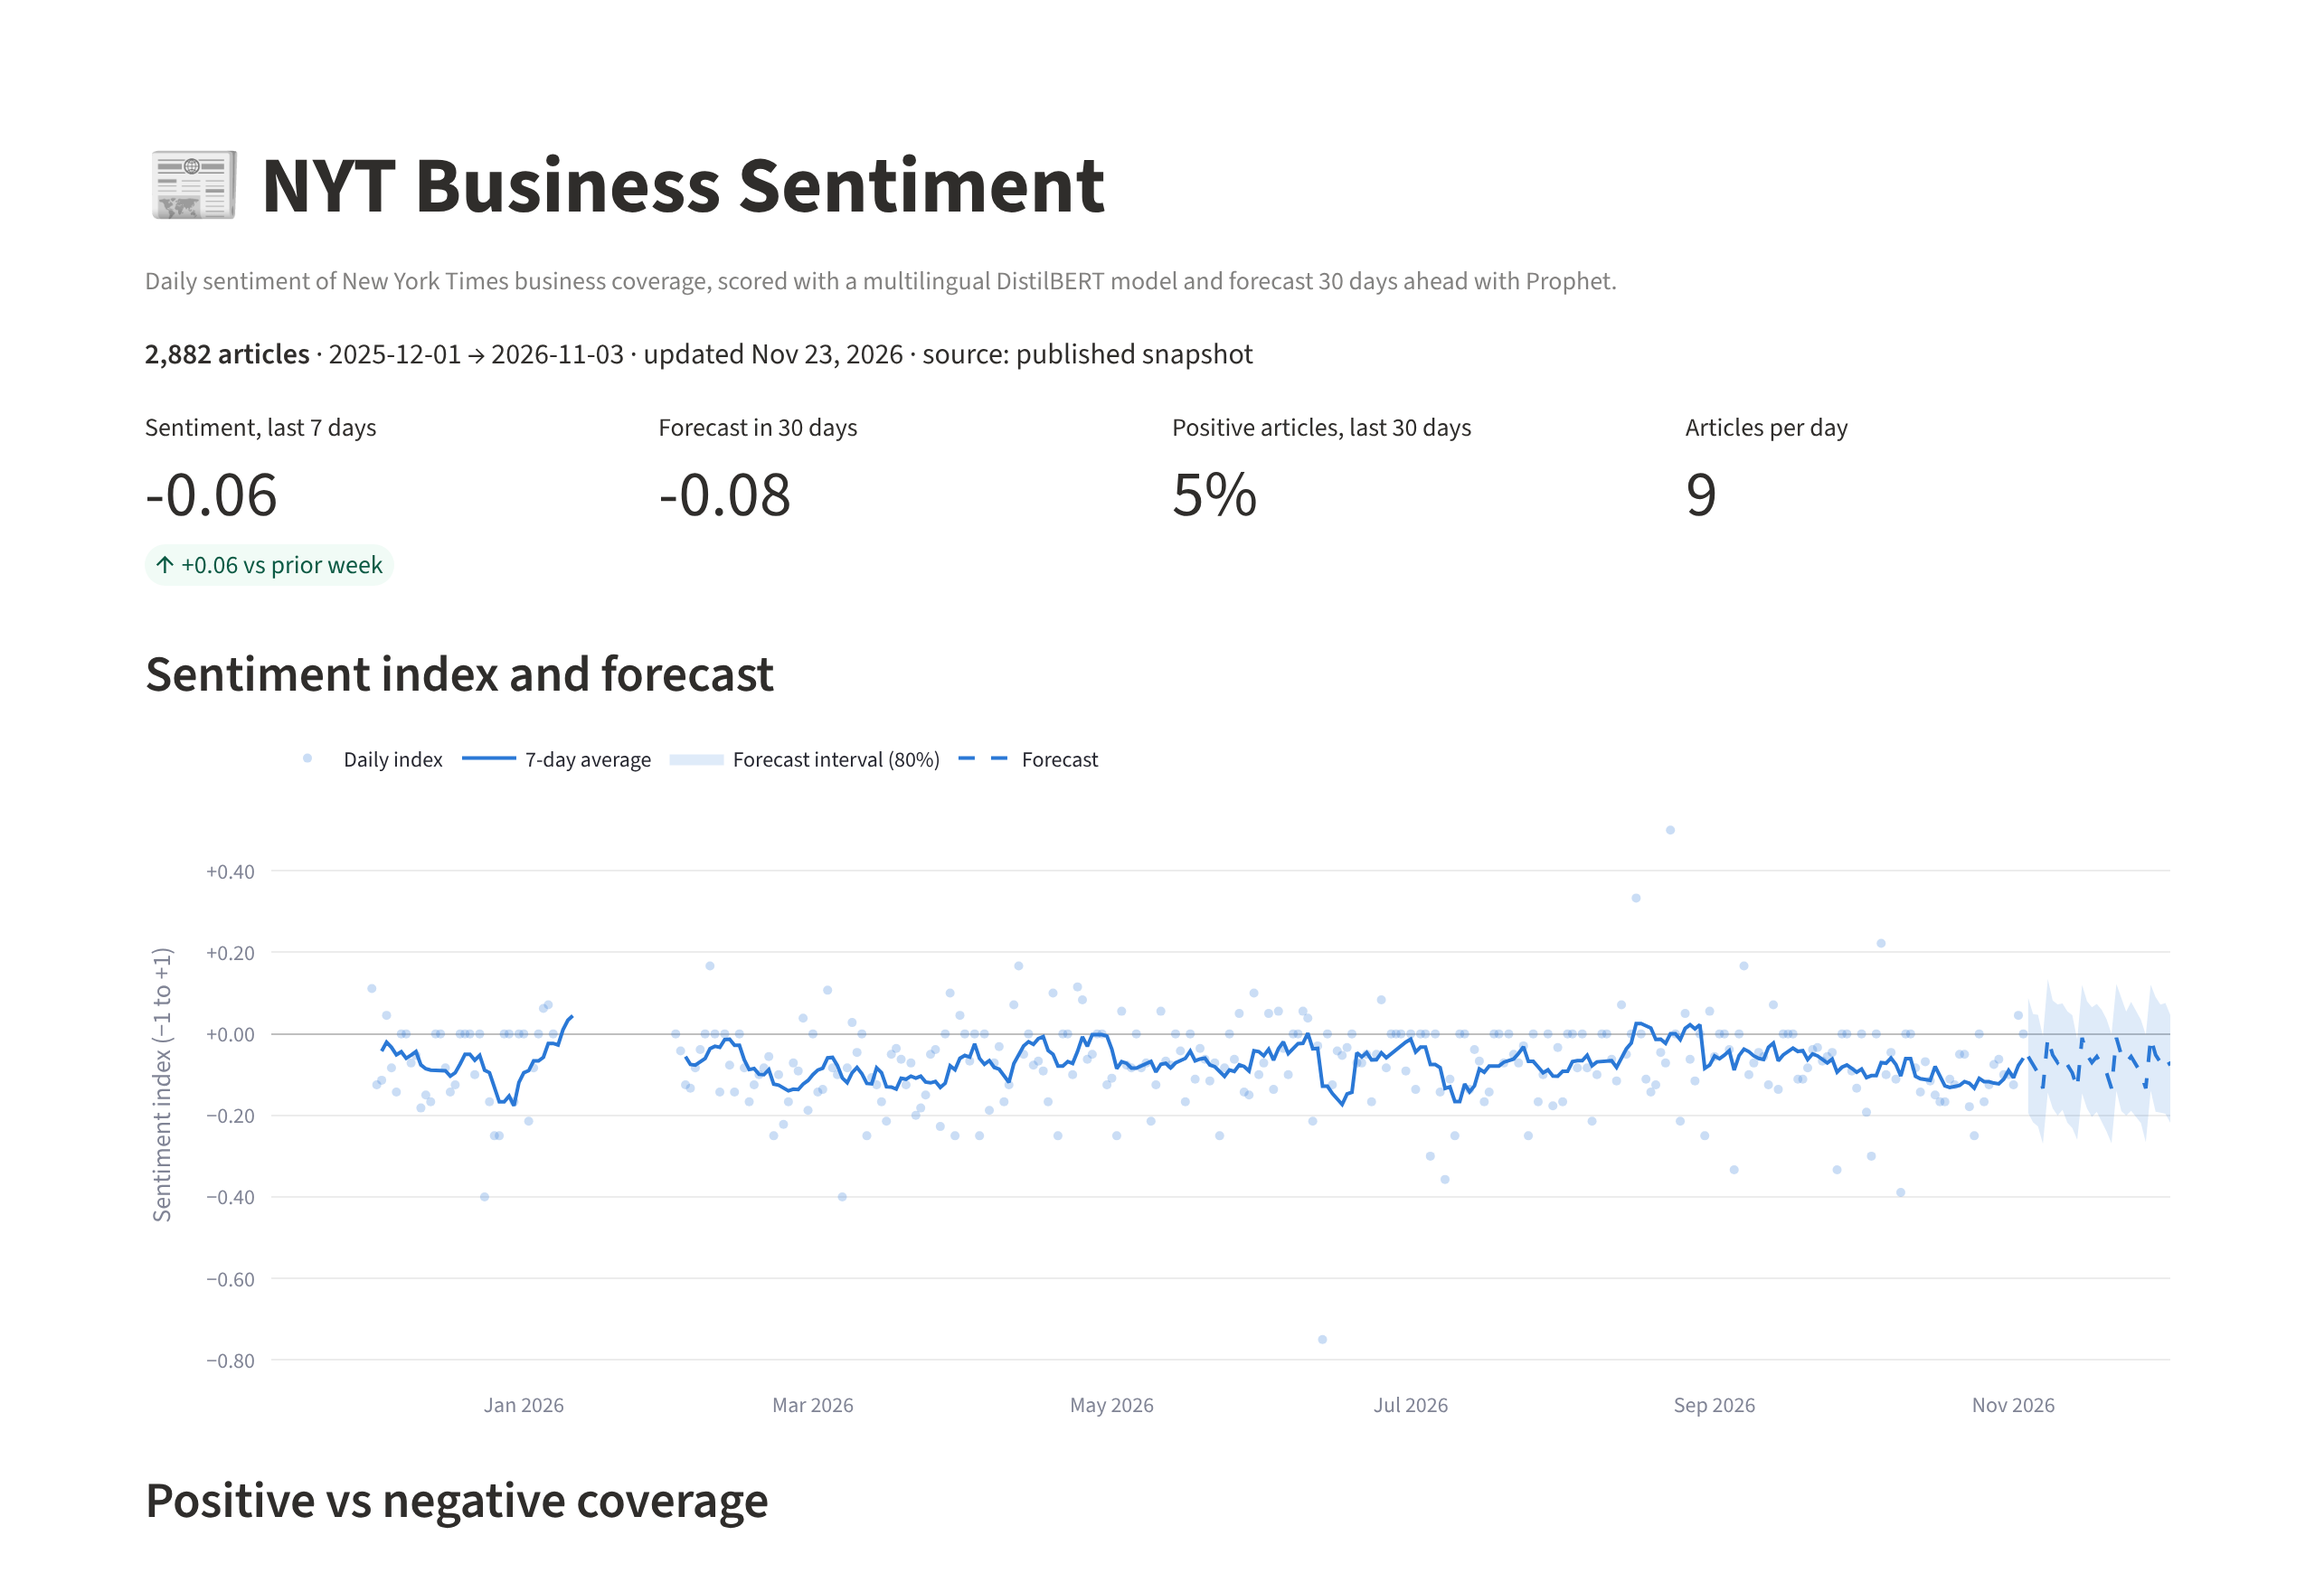
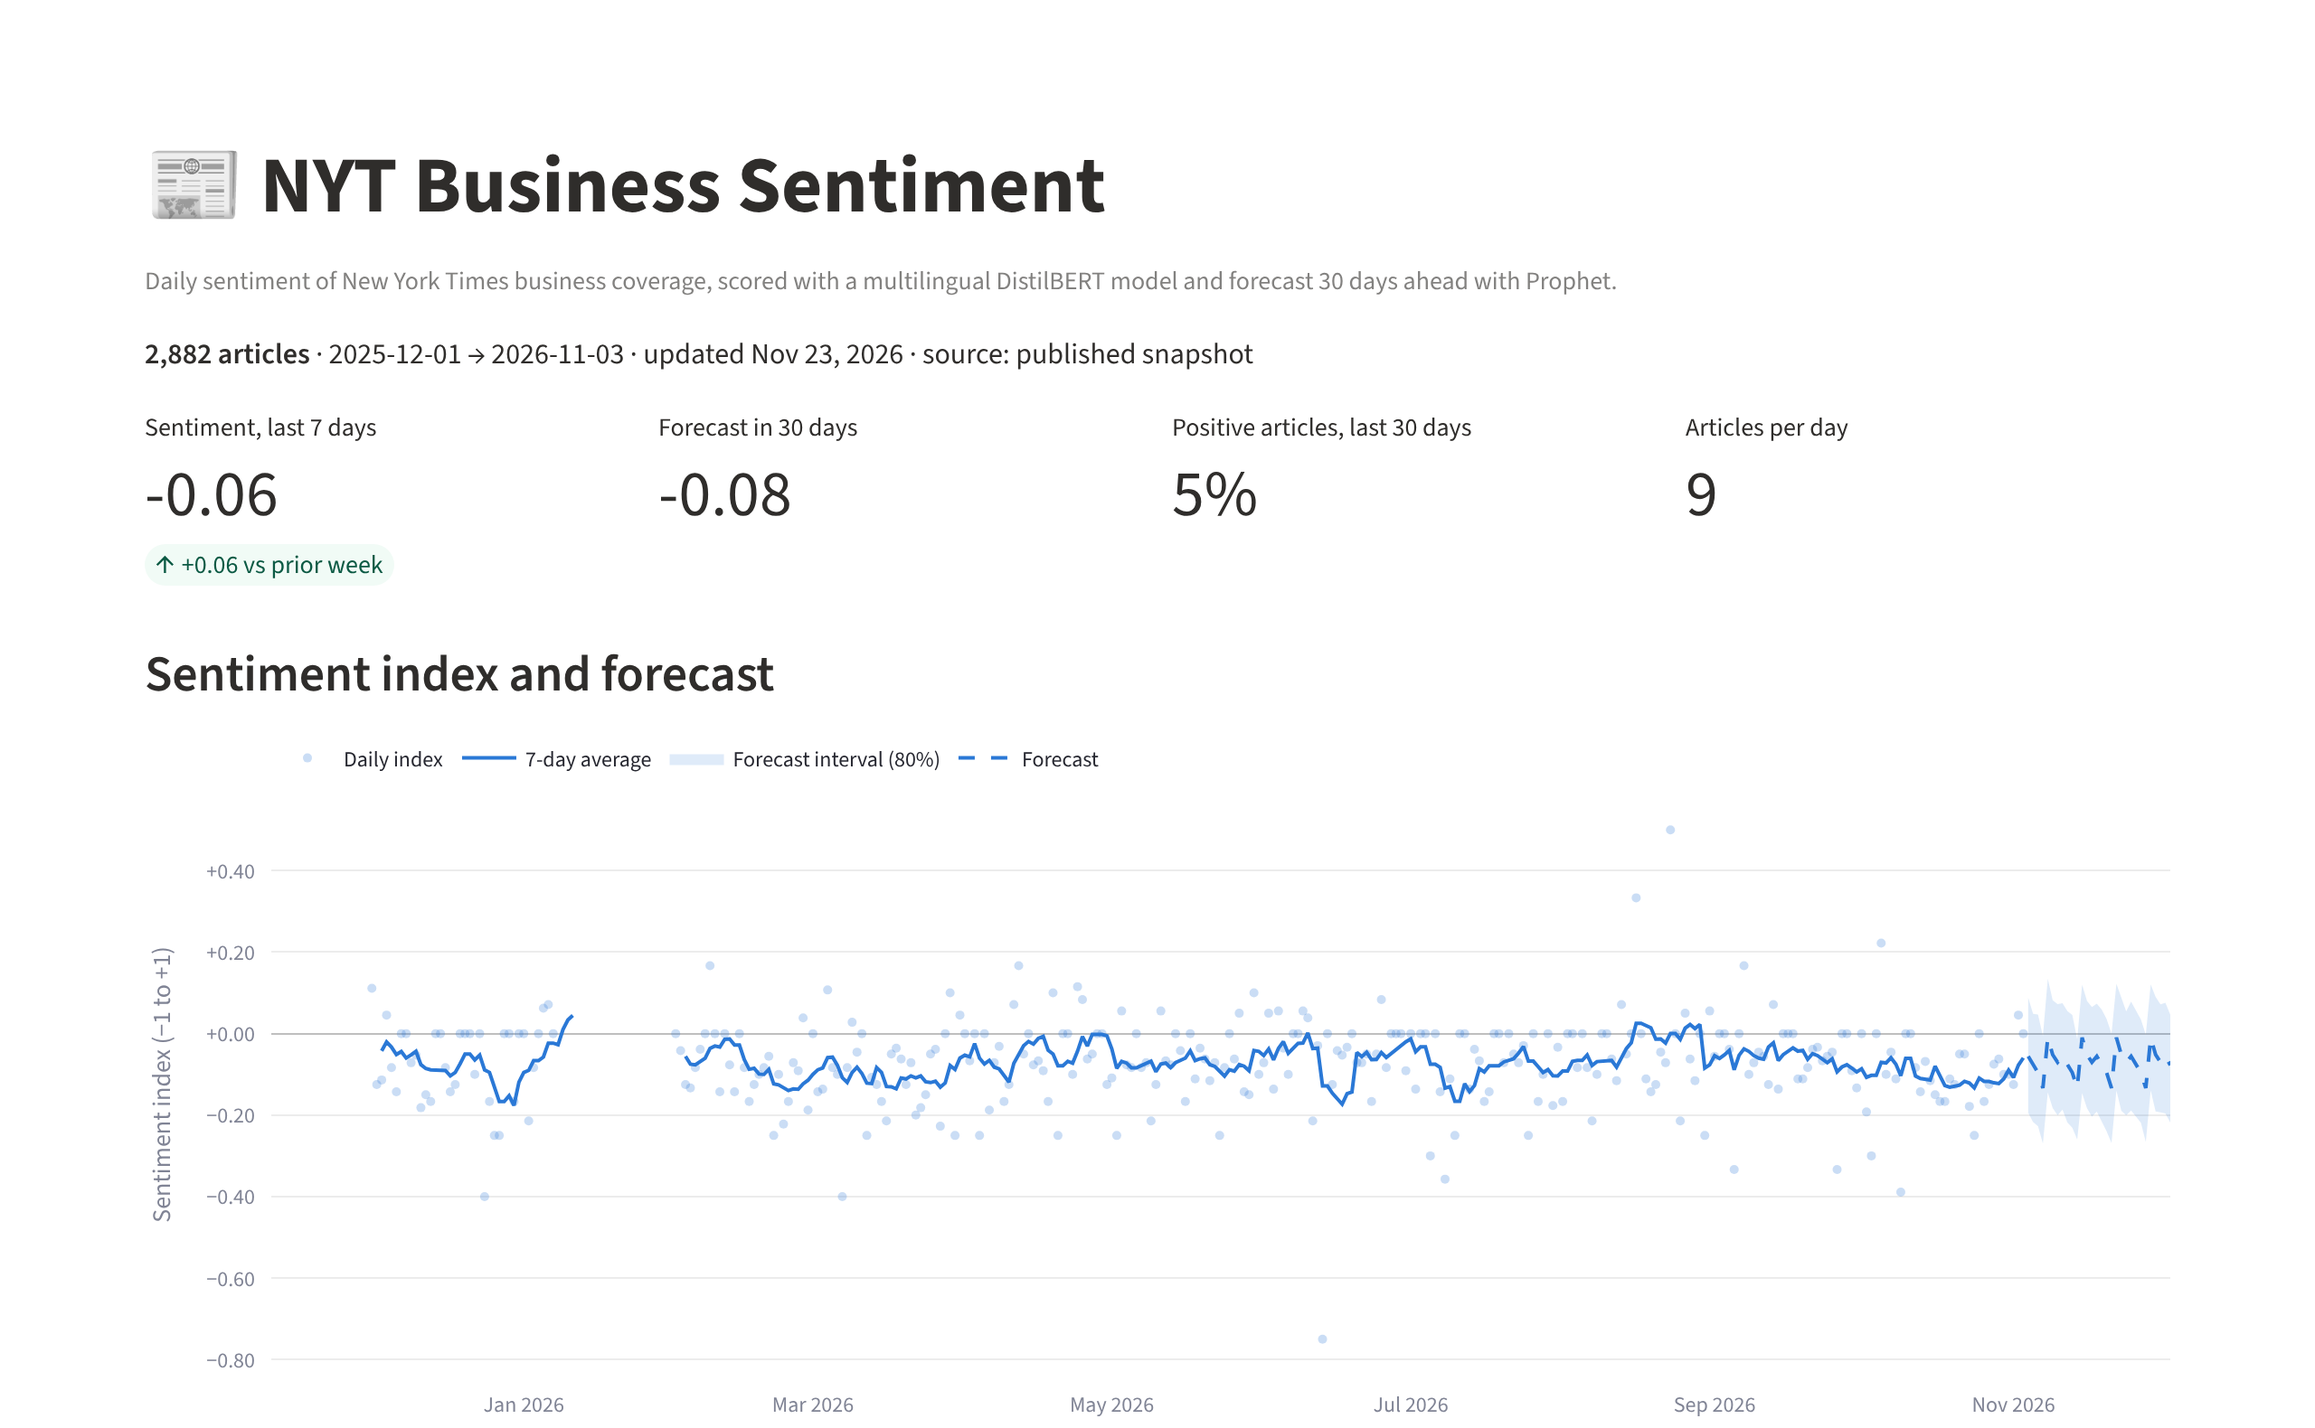
Redraw the architecture diagram and recrop the dashboard screenshot
- Top-down diagram: API, then the shared package as one row, then the
  public demo and the local stack side by side (the previous layout stacked
  the subgraphs and pushed the main flow off screen).
- Crop the screenshot right below the forecast chart.

diff --git a/README.md b/README.md
@@ -30,21 +30,27 @@ Figures from the first backfill (November 2026); the live app always shows the l
 ## How it works
 
 ```mermaid
-flowchart LR
-    NYT[NYT Archive API] --> F[Fetch and clean<br/>business articles]
-    F --> S[Sentiment<br/>DistilBERT, 5 labels]
-    S --> I[Daily index<br/>mean polarity]
-    I --> P[Prophet<br/>30-day forecast]
+flowchart TB
+    API[NYT Archive API] --> PKG
 
-    subgraph Online [Public demo]
-        GA[GitHub Actions<br/>weekly job] --> D[(Parquet on<br/>data branch)] --> APP[Streamlit<br/>Community Cloud]
+    subgraph PKG ["nyt_sentiment package"]
+        direction LR
+        F[Fetch and clean<br/>business articles] --> S[Sentiment<br/>DistilBERT, 5 labels] --> I[Daily index<br/>mean polarity] --> P[Prophet<br/>30-day forecast]
     end
 
-    subgraph Local [Local stack, docker compose]
-        AF[Airflow 3] --> S3[(RustFS S3<br/>raw JSON)]
-        AF --> PG[(PostgreSQL<br/>articles, forecast)]
-        AF --> ML[MLflow<br/>runs and artifacts]
-        PG --> ST[Streamlit]
+    PKG -->|online| Online
+    PKG -->|local| Local
+
+    subgraph Online ["Public demo"]
+        direction LR
+        GA[GitHub Actions<br/>every Monday] --> D[(Parquet files<br/>data branch)] --> APP[Streamlit<br/>Community Cloud]
+    end
+
+    subgraph Local ["Local stack (Docker)"]
+        direction LR
+        AF[Airflow 3] --> PG[(PostgreSQL<br/>articles, forecast)] --> ST[Streamlit]
+        AF --> S3[(RustFS S3<br/>raw JSON)]
+        AF --> ML[MLflow<br/>runs, artifacts]
     end
 ```
 
